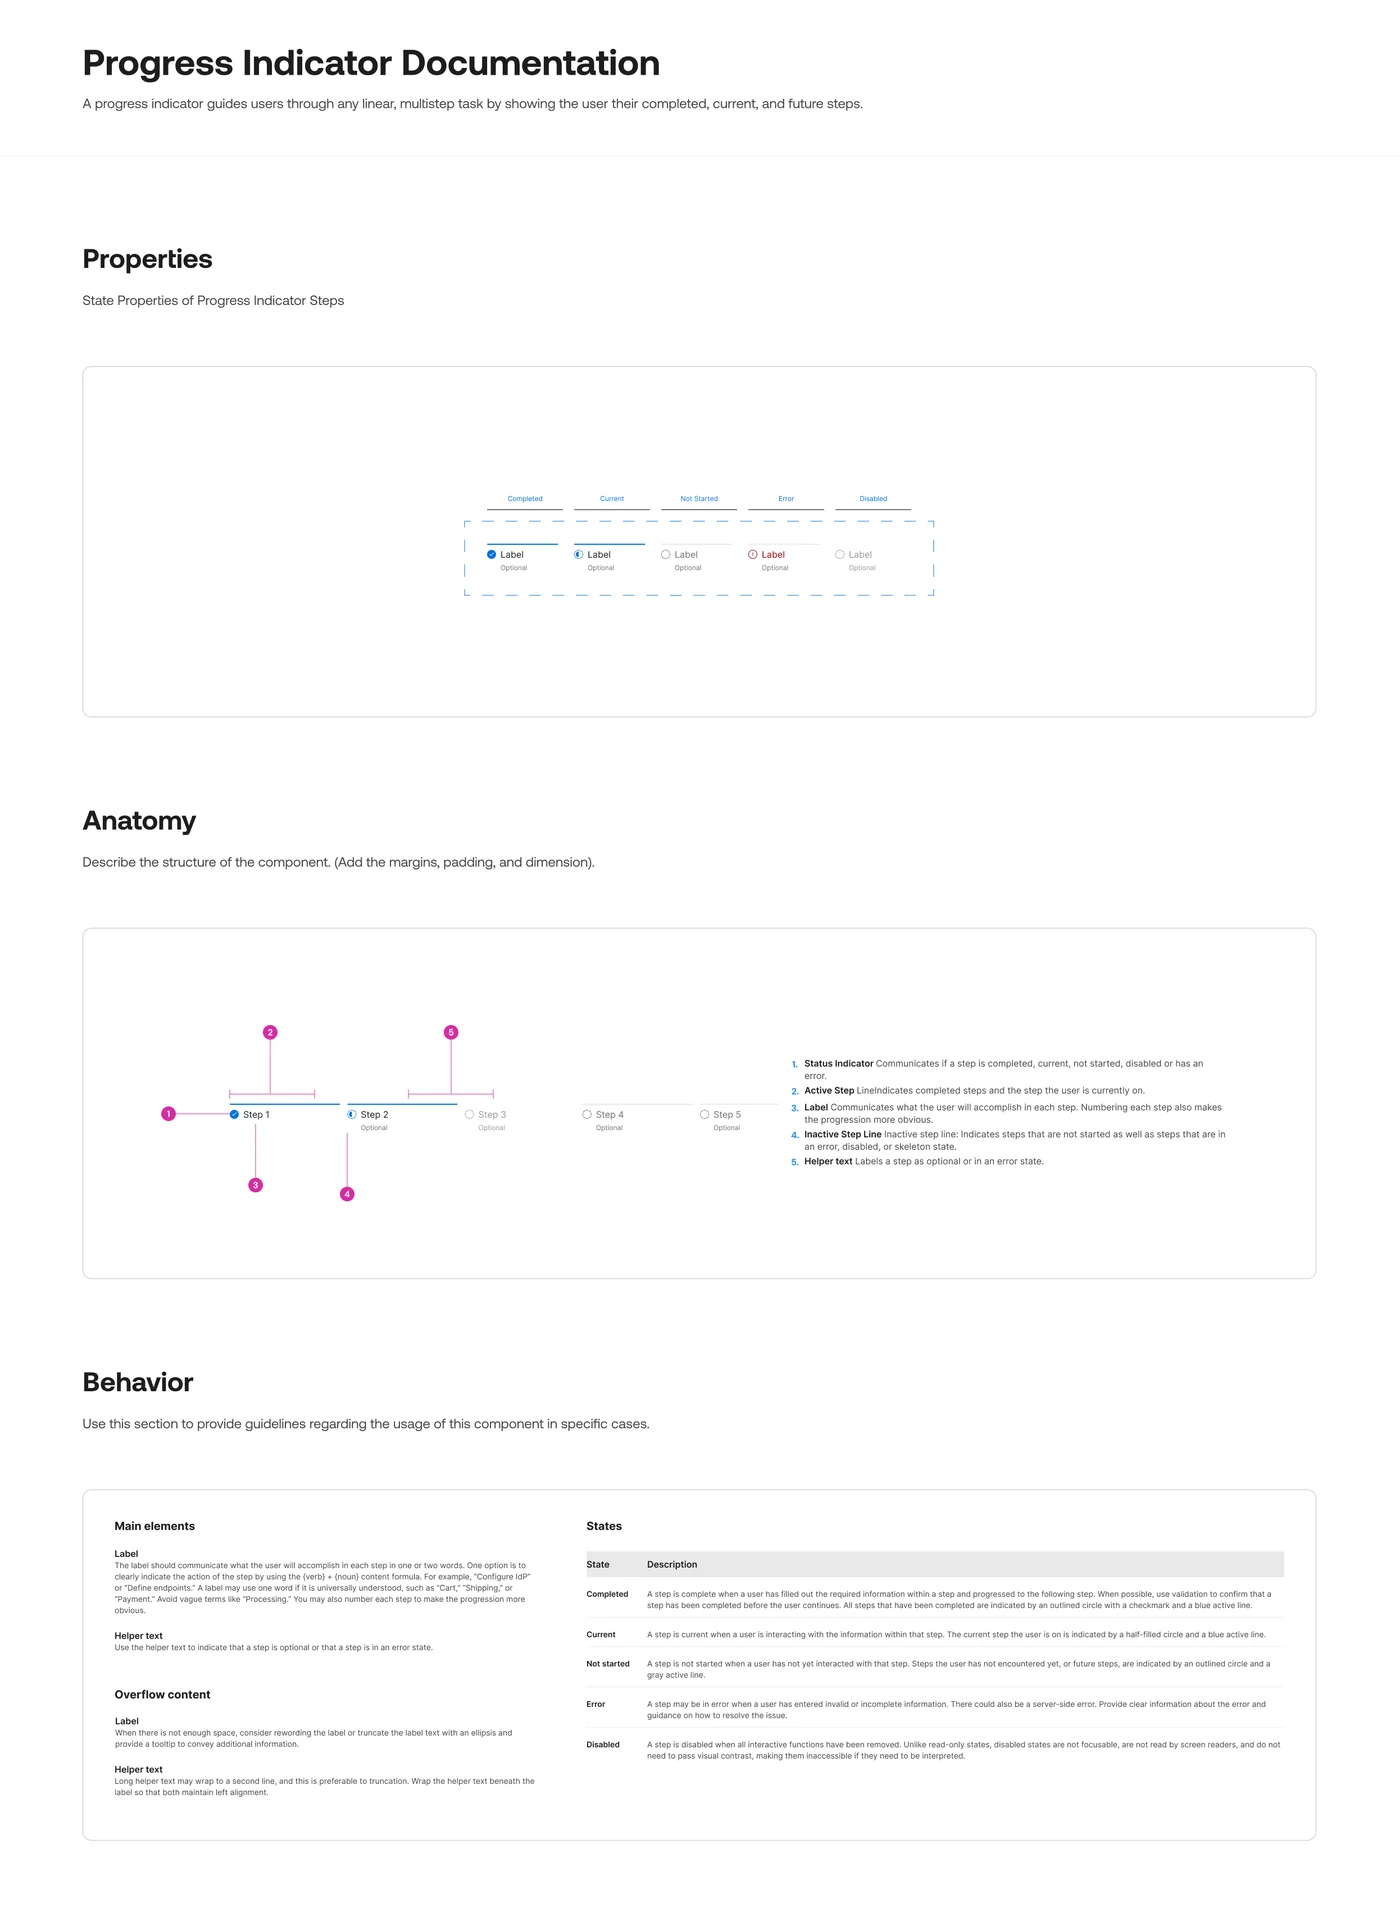
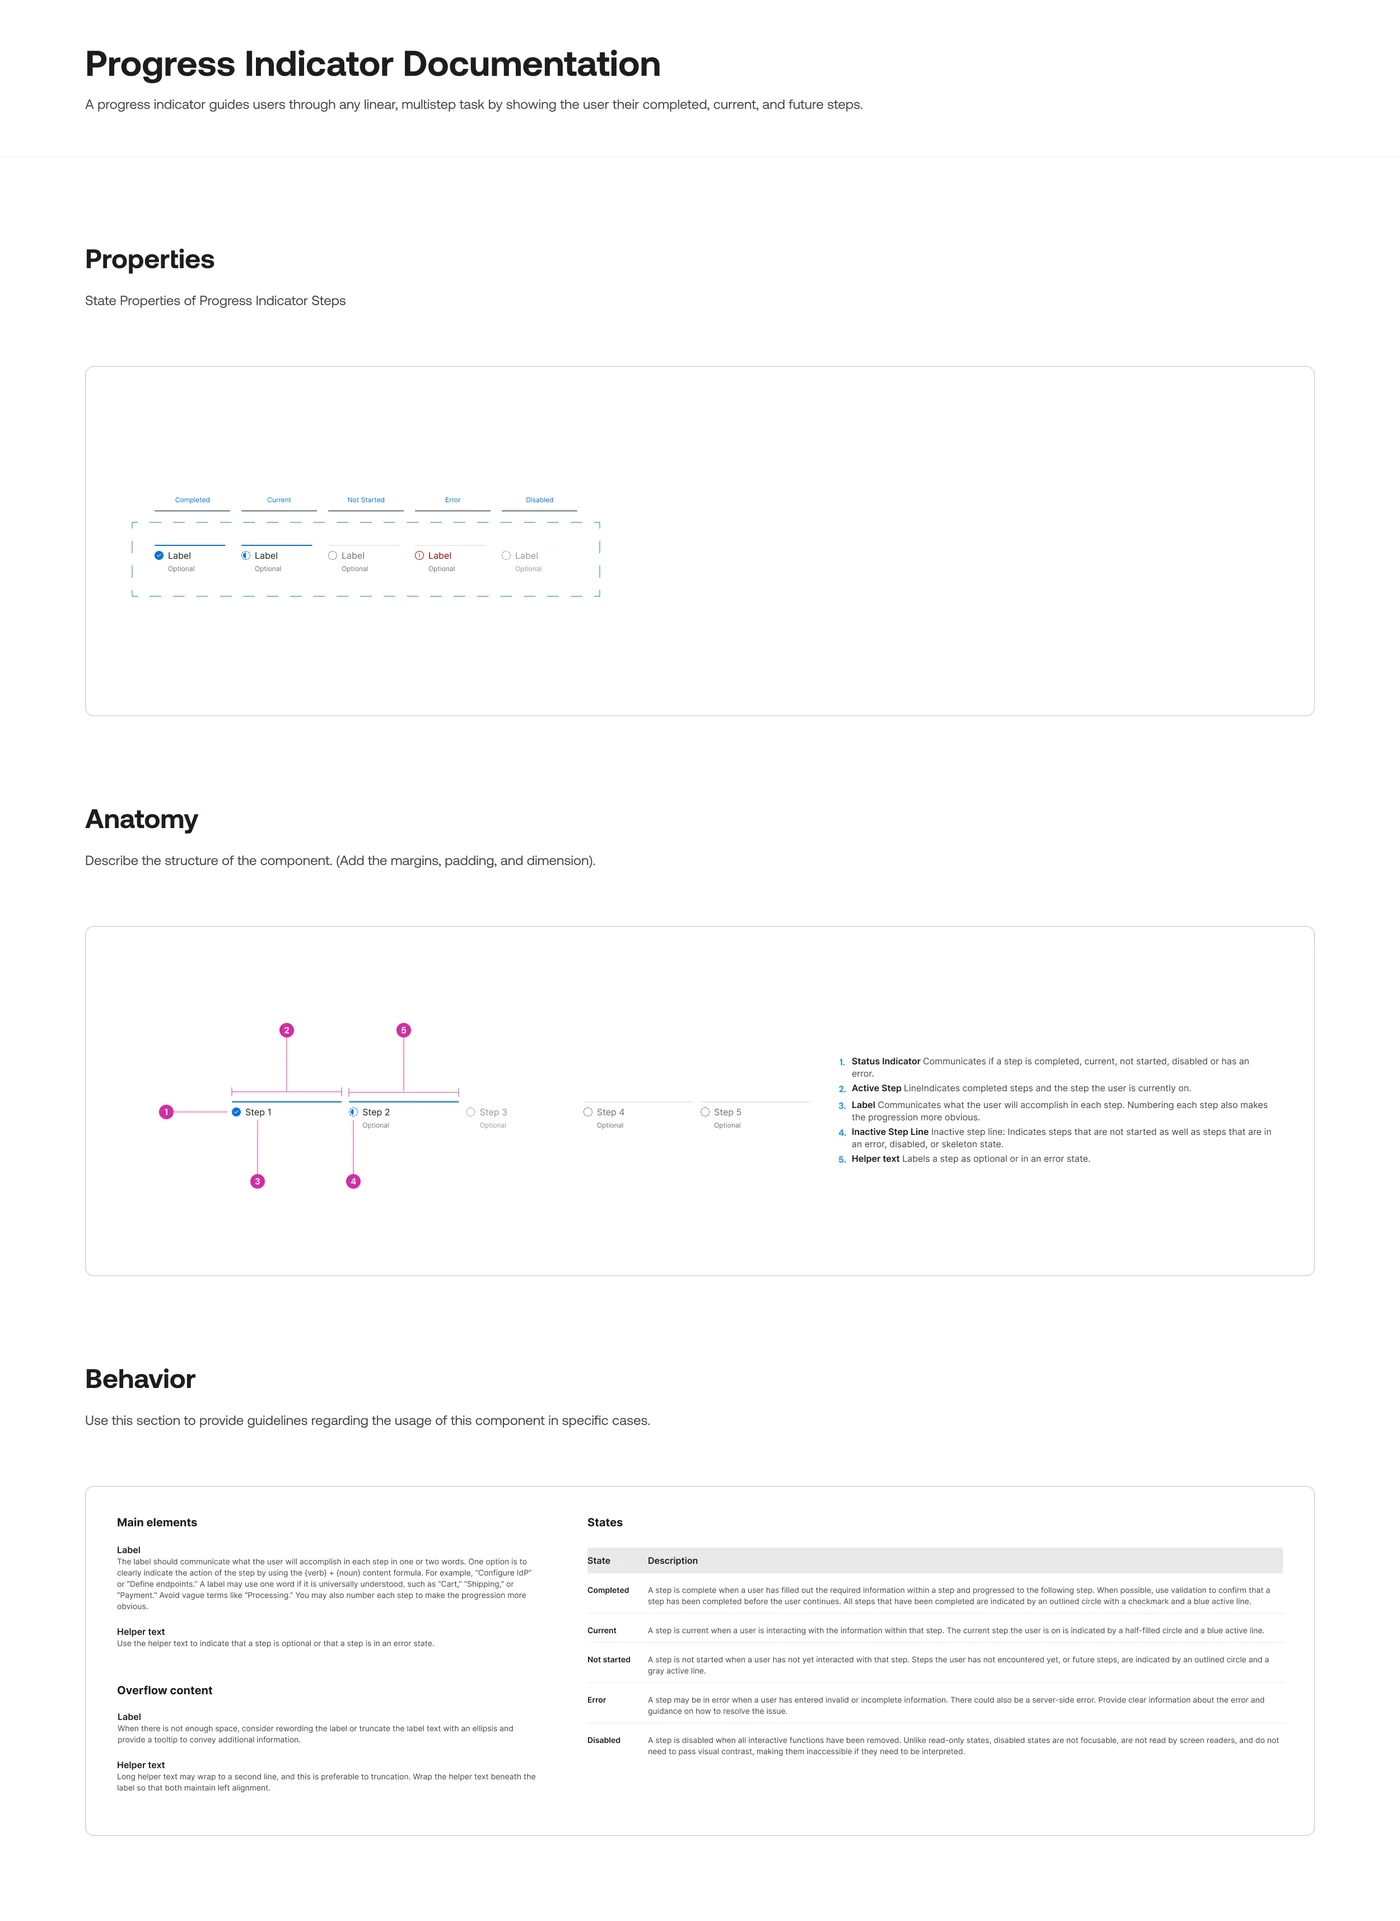
Fix email tile copy on insecure pages

diff --git a/js/ui/grid.js b/js/ui/grid.js
@@ -58,34 +58,6 @@ function linkTile(tile, url, label) {
   tile.addEventListener("click", () => window.open(url, "_blank", "noopener"));
 }
 
-/* copies text and resolves true on success. navigator.clipboard only exists on secure pages (https or
-   localhost), so everywhere else fall back to a hidden textarea and execCommand */
-async function copyText(text) {
-  try {
-    if (navigator.clipboard && window.isSecureContext) {
-      await navigator.clipboard.writeText(text);
-      return true;
-    }
-  } catch {
-    /* denied or unavailable: try the fallback below */
-  }
-  const ta = document.createElement("textarea");
-  ta.value = text;
-  ta.setAttribute("readonly", "");
-  ta.style.cssText = "position:fixed;top:0;left:0;opacity:0;pointer-events:none";
-  document.body.appendChild(ta);
-  ta.select();
-  ta.setSelectionRange(0, text.length);
-  let ok = false;
-  try {
-    ok = document.execCommand("copy");
-  } catch {
-    ok = false;
-  }
-  ta.remove();
-  return ok;
-}
-
 /* the email tile copies the address instead of expanding */
 function emailTile(tile, btn) {
   const t = SITE.tiles.email;
@@ -95,13 +67,9 @@ function emailTile(tile, btn) {
     btn.setAttribute("aria-label", t.copy);
   };
   let resetTimer = null;
-  const copy = async (e) => {
+  const copy = (e) => {
     e.stopPropagation();
-    if (!(await copyText(EMAIL_ADDRESS))) {
-      /* copying is blocked: open the mail app so the click still does something useful */
-      window.location.href = LINKS.email;
-      return;
-    }
+    navigator.clipboard?.writeText(EMAIL_ADDRESS).catch(() => {});
     announce(t.announce);
     bubble.say(t.bubbleCopied);
     replayClass(tile, "sent");

diff --git a/css/case-study.css b/css/case-study.css
@@ -154,6 +154,14 @@
   color: var(--muted);
   padding-top: 3px;
 }
+.cs-rows dd a {
+  color: var(--accent);
+  text-decoration-thickness: 1px;
+  text-underline-offset: 3px;
+}
+:root[data-theme="dark"] .cs-rows dd a {
+  color: #c9b8ff;
+}
 .cs-rows dd {
   margin: 0;
   font-size: 15px;
@@ -1487,7 +1495,7 @@ html.case-open .theme-sw {
   font-weight: 400;
   letter-spacing: 0.04em;
   text-transform: none;
-  opacity: 0.6;
+  opacity: 0.8; /* 0.6 fell below 4.5:1 contrast */
   white-space: nowrap;
 }
 .cs-mode-time:empty {
@@ -1525,4 +1533,26 @@ html.case-open .theme-sw {
   .cs-mode-seg button {
     padding: 0 12px;
   }
+}
+
+/* the cover already shows the case study's title and tags, so the text versions under it are kept
+   for screen readers only (the title stays the page's first heading and takes focus on open) */
+#caseKicker {
+  display: none;
+}
+/* on narrow phones the cover has no room for its tags (case-covers.css), so the text tags show instead */
+@media (max-width: 420px) {
+  #caseKicker {
+    display: block;
+    margin-top: 4px;
+  }
+}
+#caseTitle {
+  position: absolute;
+  width: 1px;
+  height: 1px;
+  margin: -1px;
+  overflow: hidden;
+  clip: rect(0 0 0 0);
+  white-space: nowrap;
 }

diff --git a/js/cases/nrth.js b/js/cases/nrth.js
@@ -237,7 +237,7 @@ CASE_CONTENT.nrth = {
                     label: "Design system · Progress indicator",
                     text: "The base progress indicator and its step variants: completed, current, not started, error and disabled. It guides users through linear tasks such as onboarding.",
                     wide: true,
-                    ratio: "1600/836",
+                    ratio: "1600/837",
                   },
                   {
                     img: "assets/nrth-ds-progress-docs.webp",
@@ -245,7 +245,7 @@ CASE_CONTENT.nrth = {
                     label: "Design system · Documentation",
                     text: "Each component comes with documentation: its properties, an annotated anatomy, and behaviour guidelines covering labels, helper text, overflow content and what every state means.",
                     wide: true,
-                    ratio: "1400/1922",
+                    ratio: "1400/1921",
                   },
                 ],
                 layout: "board",

diff --git a/css/controls.css b/css/controls.css
@@ -237,11 +237,11 @@
 .brand:hover .brand-oni {
   transform: rotate(-10deg) translateY(-2px);
 }
+/* phones: no room beside the filter tabs, and floating at the bottom it covered the tiles,
+   so the logo shows only over an open case study (see case-study.css) */
 @media (max-width: 640px) {
-  .brand {
-    top: auto;
-    bottom: 14px;
-    left: 14px;
+  html:not(.case-open) .brand {
+    display: none;
   }
 }
 .tlabel i {

diff --git a/css/grid.css b/css/grid.css
@@ -353,11 +353,6 @@ html.loaded:not(.md-written) .mdm .md-e {
   font-size: clamp(12px, 3.2cqw, 16px);
   max-width: 34ch;
 }
-@media (max-width: 620px) {
-  .card-copy p {
-    display: none;
-  }
-}
 /* image / wireframe tiles */
 .visual {
   position: absolute;
